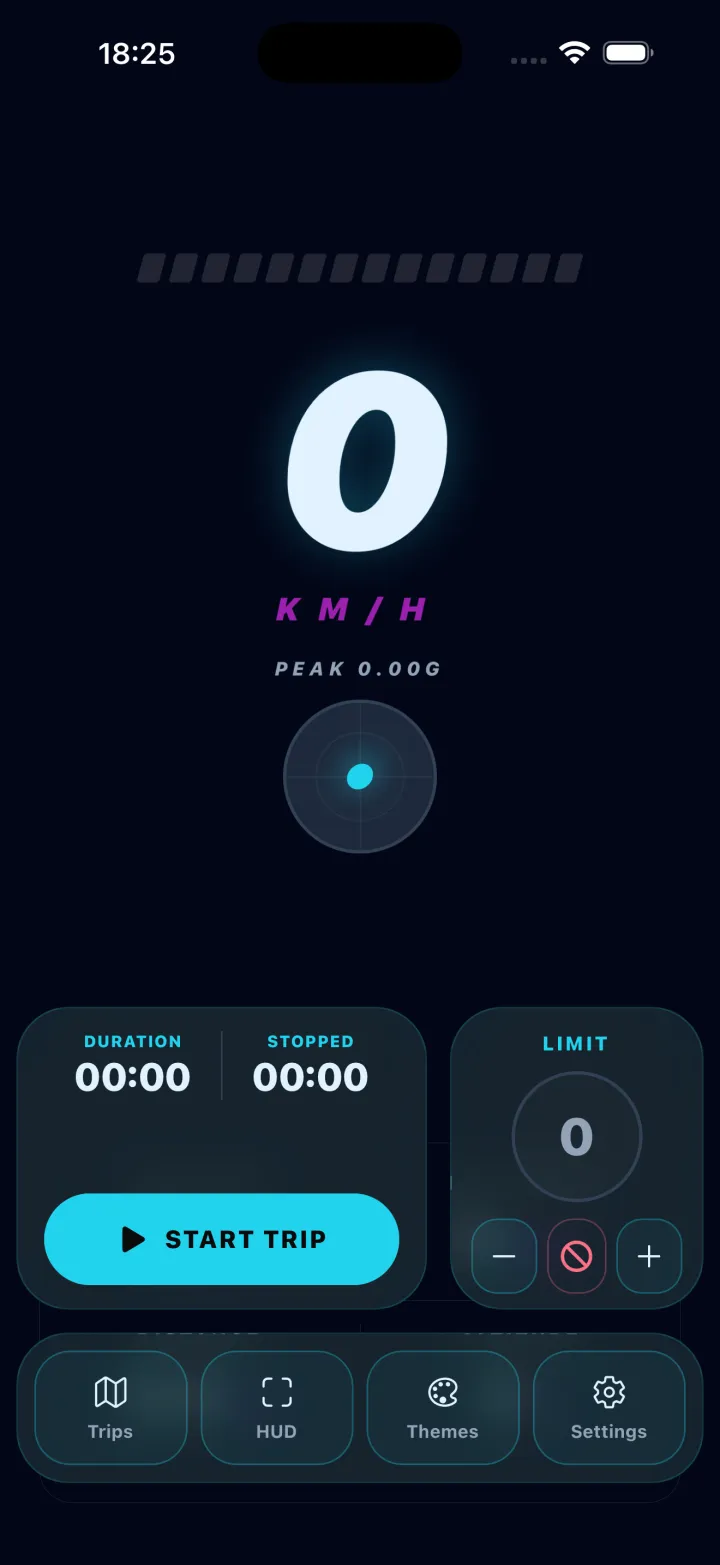
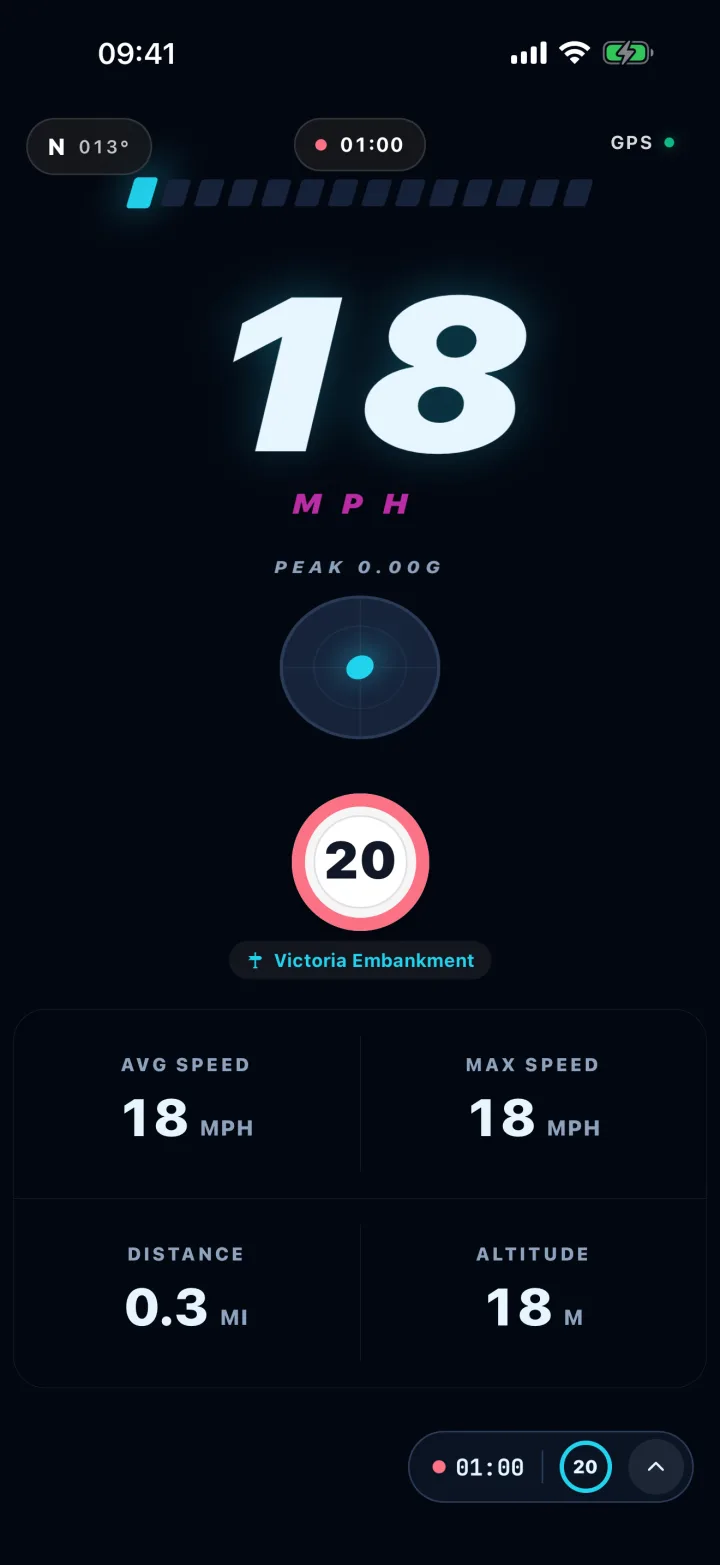
Speedometer Lite: the new main screen, and the live map
- The main screen is the November capture: a drive at 18 mph under a posted
  limit of 20, with average and top speed, distance and altitude. It replaces
  the August one, which showed an empty 0 km/h and the old Start Trip panel,
  on the app page's hero and the home card's Dial tab alike.
- The live map joins the app page's gallery (four screens: one row wide, two
  by two on tablets) and the home card as a Map tab.

diff --git a/speedometer-lite/index.html b/speedometer-lite/index.html
@@ -105,7 +105,7 @@
                 <line class="tick" x1="148.0" y1="65.9" x2="164.4" y2="73.2" />
                 <line class="tick major" x1="129.9" y1="75.0" x2="157.6" y2="91.0" />
               </svg>
-              <div class="device"><div class="glass"><img src="../assets/speedometer-lite-main.webp" width="720" height="1565" alt="The main screen: a large speed readout in km/h, peak G-force, trip timers, a speed limit control and a Start Trip button" fetchpriority="high" /></div></div>
+              <div class="device"><div class="glass"><img src="../assets/speedometer-lite-main.webp" width="720" height="1565" alt="The main screen on a drive: 18 mph, the posted limit of 20 on Victoria Embankment, and the trip's average and top speed, distance and altitude" fetchpriority="high" /></div></div>
             </div>
           </div>
         </section>
@@ -125,8 +125,9 @@
 
         <section class="sec">
           <h2 class="sec-title">What it actually looks like</h2>
-          <ul class="gallery">
+          <ul class="gallery four">
             <li><div class="device"><div class="glass"><img src="../assets/speedometer-lite-themes.webp" width="720" height="1565" alt="The theme picker, a grid of dial faces including Pure Minimal, Cyberpunk, Retro Arcade, Track Day, Chronograph, Aviation, Stealth, Vintage Classic, Eco Touring, Digital Sport, Synthwave and Liquid Core." loading="lazy" decoding="async" /></div></div><p><b>Fifteen faces</b>The same speed, drawn fifteen ways. Each one brings its own app icon with it.</p></li>
+            <li><div class="device"><div class="glass"><img src="../assets/speedometer-lite-map.webp" width="720" height="1565" alt="The live map: the speed on a tape across the top, the posted limit, heading and altitude, and the route drawn as you drive" loading="lazy" decoding="async" /></div></div><p><b>Live map</b>Your speed on a tape over the road ahead, with the posted limit and the route drawn as you go.</p></li>
             <li><div class="device"><div class="glass"><img src="../assets/speedometer-lite-trip.webp" width="720" height="1565" alt="A recorded trip: the route on a map, start and end points, distance, maximum altitude, average and maximum speed, and a speed-over-time graph." loading="lazy" decoding="async" /></div></div><p><b>The drive, afterwards</b>Route on a map, distance, average and top speed, and the whole run as a graph.</p></li>
             <li><div class="device"><div class="glass"><img src="../assets/speedometer-lite-hud.webp" width="720" height="1565" alt="HUD mirror mode: the speed readout drawn upside down and mirrored, so it reads the right way round when reflected in the windscreen." loading="lazy" decoding="async" /></div></div><p><b>Mirror mode</b>Drawn upside down and back to front on purpose — it reads correctly in the windscreen.</p></li>
           </ul>

diff --git a/index.html b/index.html
@@ -179,7 +179,8 @@
             <div class="showcase">
               <div class="phone tilt" data-views>
                 <div class="shots">
-                  <img class="is-on" data-view="dial" src="assets/speedometer-lite-main.webp" width="720" height="1565" alt="Speedometer Lite showing a speed dial" loading="lazy" decoding="async" />
+                  <img class="is-on" data-view="dial" src="assets/speedometer-lite-main.webp" width="720" height="1565" alt="Speedometer Lite on a drive: 18 mph under a posted limit of 20" loading="lazy" decoding="async" />
+                  <img data-view="map" src="assets/speedometer-lite-map.webp" width="720" height="1565" alt="The live map: the speed on a tape across the top, the posted limit and the route as you drive" loading="lazy" decoding="async" />
                   <img data-view="themes" src="assets/speedometer-lite-themes.webp" width="720" height="1565" alt="Speedometer Lite's theme picker, fifteen dials in a grid" loading="lazy" decoding="async" />
                   <img data-view="hud" src="assets/speedometer-lite-hud.webp" width="720" height="1565" alt="Speedometer Lite's HUD mode, mirrored to reflect in a windscreen" loading="lazy" decoding="async" />
                   <img data-view="trip" src="assets/speedometer-lite-trip.webp" width="720" height="1565" alt="A recorded trip on a map with its speed graph" loading="lazy" decoding="async" />
@@ -188,6 +189,7 @@
               </div>
               <div class="dots" role="group" aria-label="Speedometer Lite screens">
                 <button class="dot" type="button" data-show="dial" aria-pressed="true">Dial</button>
+                <button class="dot" type="button" data-show="map" aria-pressed="false">Map</button>
                 <button class="dot" type="button" data-show="themes" aria-pressed="false">Themes</button>
                 <button class="dot" type="button" data-show="hud" aria-pressed="false">HUD</button>
                 <button class="dot" type="button" data-show="trip" aria-pressed="false">Trip</button>

diff --git a/assets/shell.css b/assets/shell.css
@@ -713,6 +713,28 @@
   text-align: center;
 }
 
+/* Four screens: one row on wide pages, two by two on tablets. */
+.gallery.four {
+  grid-template-columns: repeat(4, minmax(0, 1fr));
+  gap: clamp(1.25rem, 3vw, 2.5rem);
+}
+
+.gallery.four .device {
+  --w: 250px;
+}
+
+@media (min-width: 861px) and (max-width: 1080px) {
+  .gallery.four {
+    grid-template-columns: repeat(2, minmax(0, 1fr));
+  }
+}
+
+@media (max-width: 860px) {
+  .gallery.four {
+    grid-template-columns: minmax(0, 1fr);
+  }
+}
+
 .gallery b {
   display: block;
   color: var(--sh-ink);
